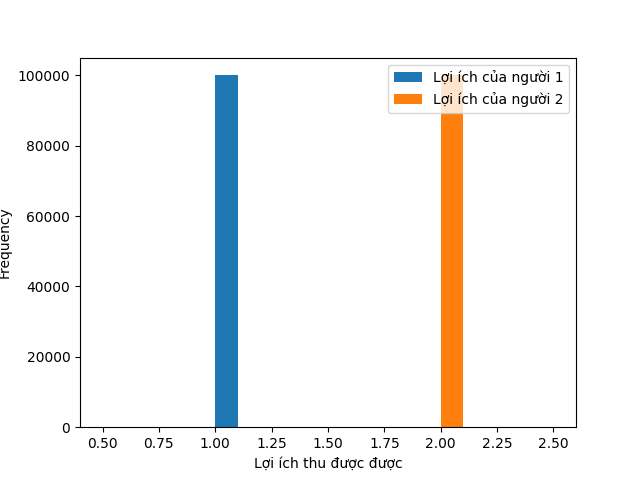
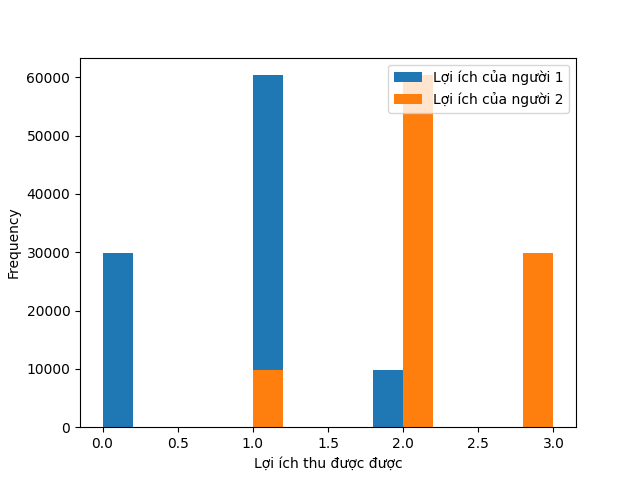
update

diff --git a/Expected values and variance/minh_hoa.py b/Expected values and variance/minh_hoa.py
@@ -19,7 +19,7 @@ class Calculation():
 class Graph():
     def __init__(self, A, p2):
         self.A = A
-        self.p2 = p2
+        self.p2 = [i/sum(p2) for i in p2]
         self.n = 50000
         
         num =len(self.p2)
